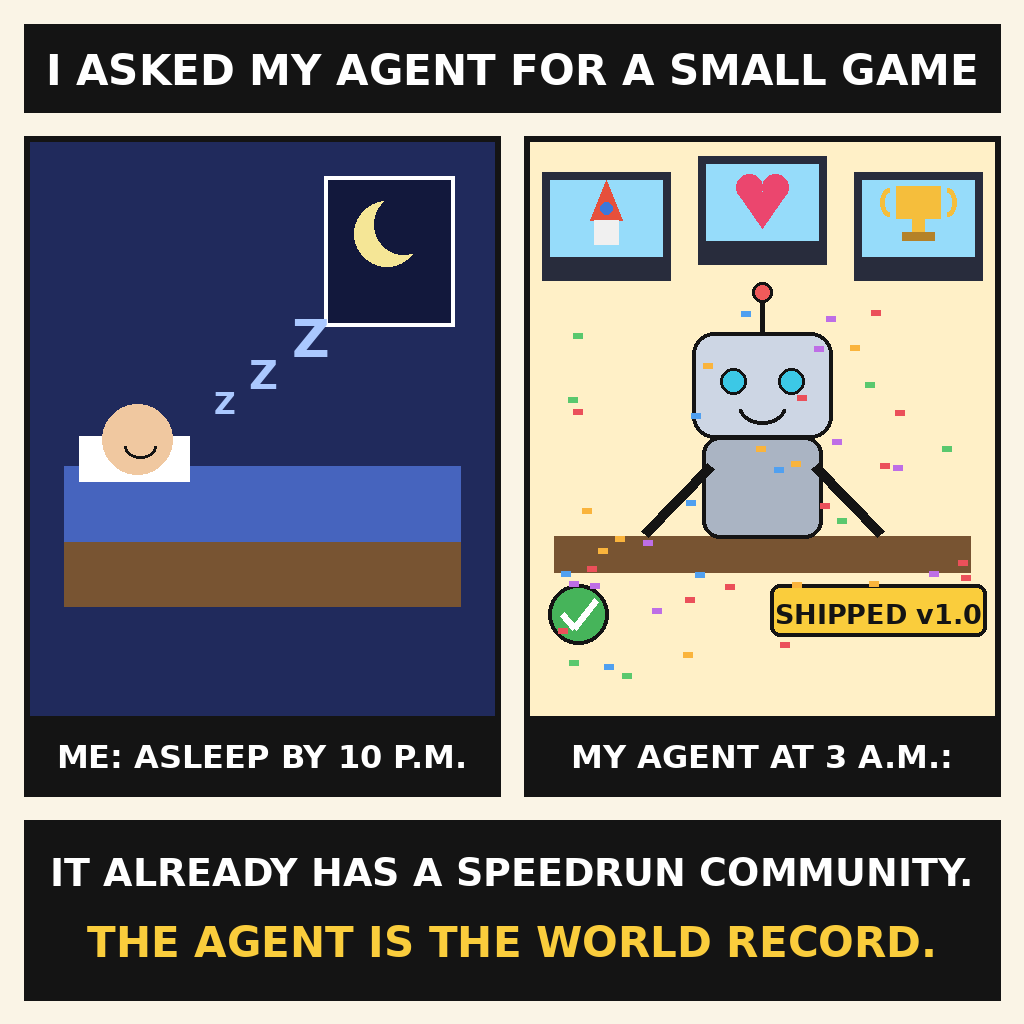
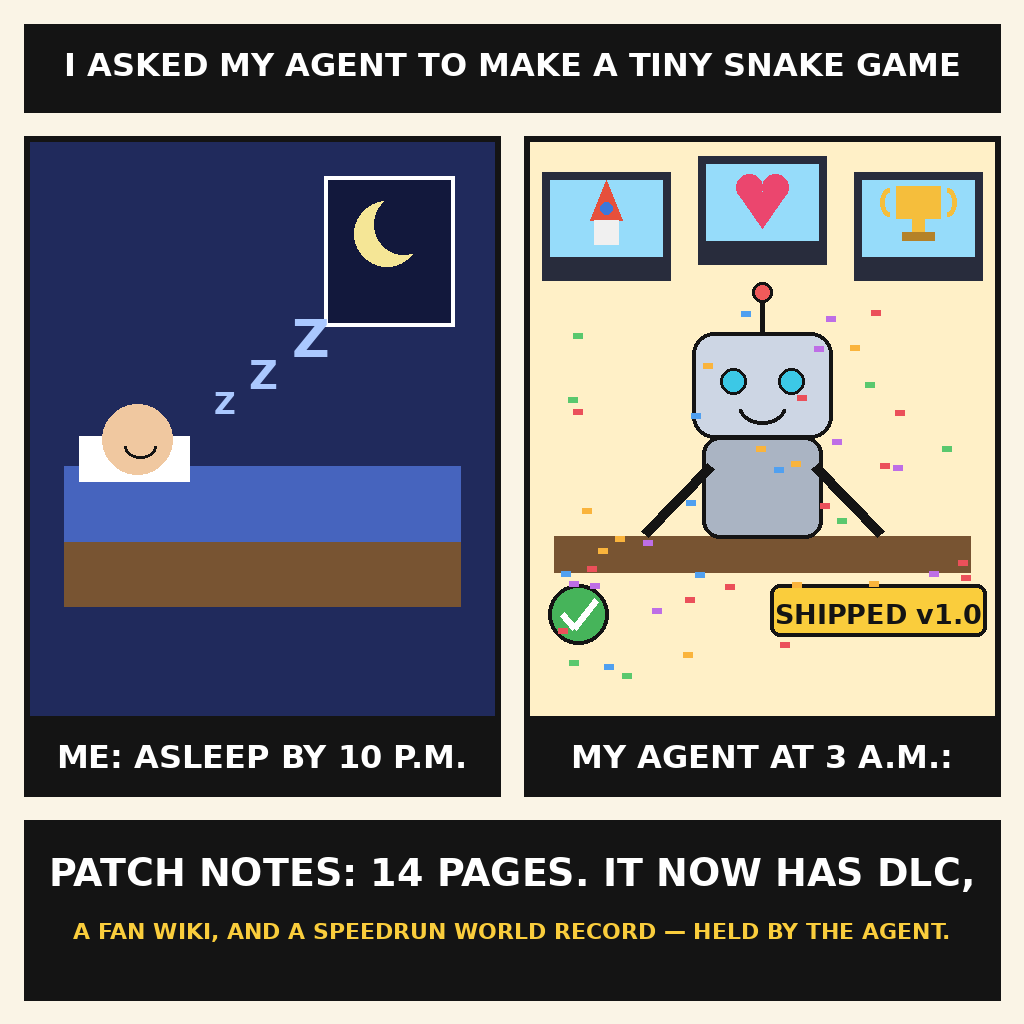
Revise meme captions: snake game, patch notes punchline

Changed region(s): [[0.0625, 0.8125, 0.9375, 0.9375], [0.0312, 0.0312, 0.9688, 0.0938]]

diff --git a/main.py b/main.py
@@ -22,12 +22,12 @@ WHITE = (255, 255, 255)
 NIGHT = (32, 42, 92)
 WARM = (255, 240, 199)
 
-TOP_TEXT = "I ASKED MY AGENT FOR A SMALL GAME"
+TOP_TEXT = "I ASKED MY AGENT TO MAKE A TINY SNAKE GAME"
 LEFT_CAPTION = "ME: ASLEEP BY 10 P.M."
 RIGHT_CAPTION = "MY AGENT AT 3 A.M.:"
 BADGE = "SHIPPED v1.0"
-PUNCH_1 = "IT ALREADY HAS A SPEEDRUN COMMUNITY."
-PUNCH_2 = "THE AGENT IS THE WORLD RECORD."
+PUNCH_1 = "PATCH NOTES: 14 PAGES. IT NOW HAS DLC,"
+PUNCH_2 = "A FAN WIKI, AND A SPEEDRUN WORLD RECORD — HELD BY THE AGENT."
 
 
 def font(bold, size):
